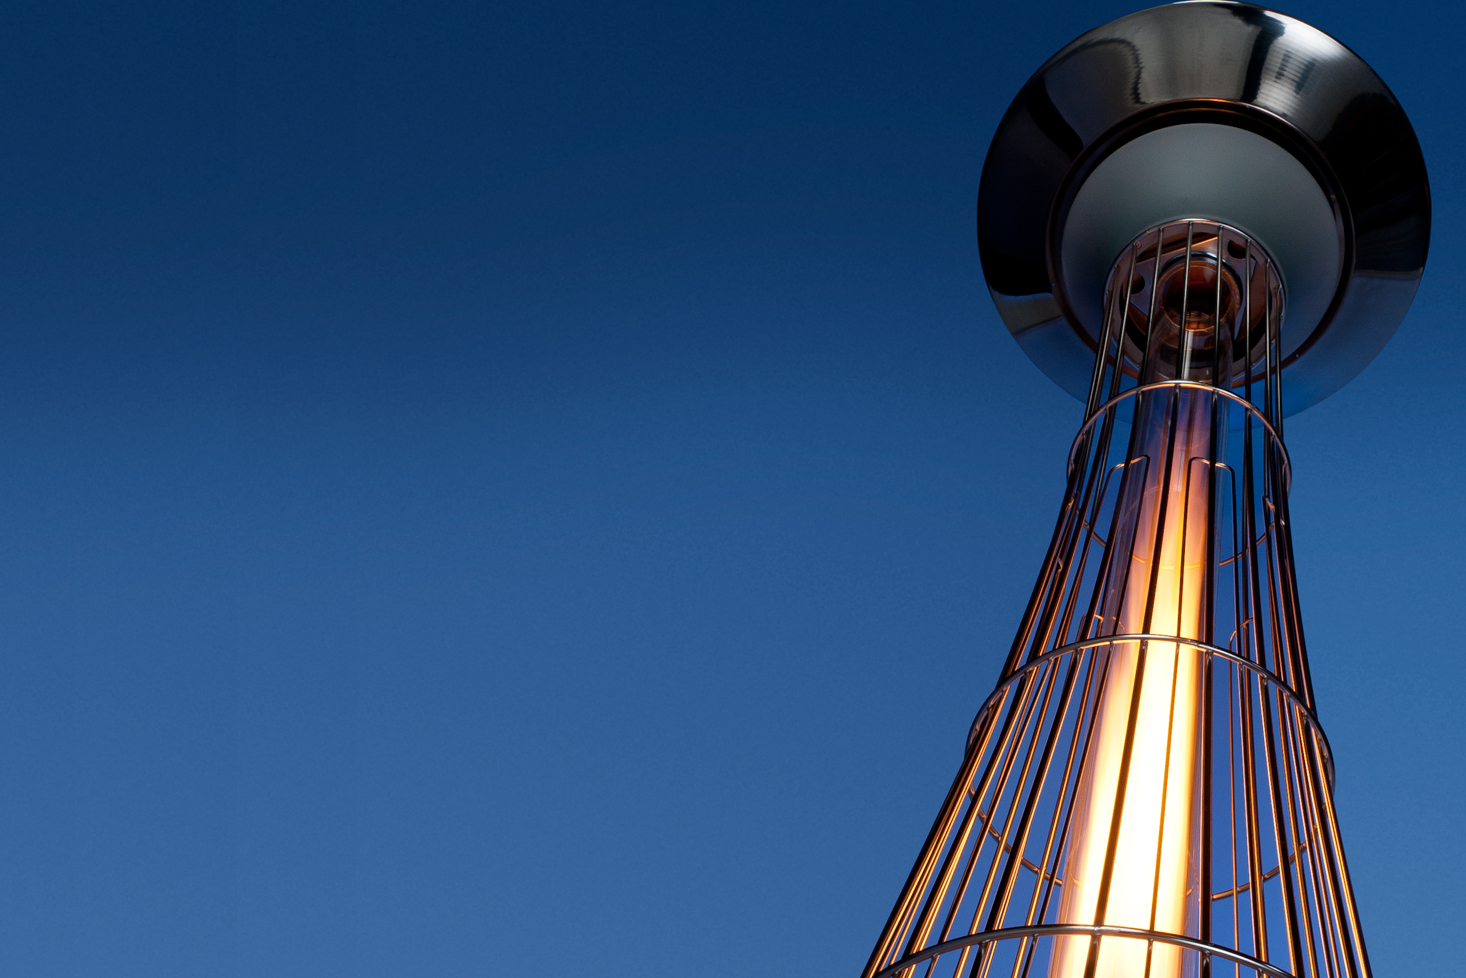
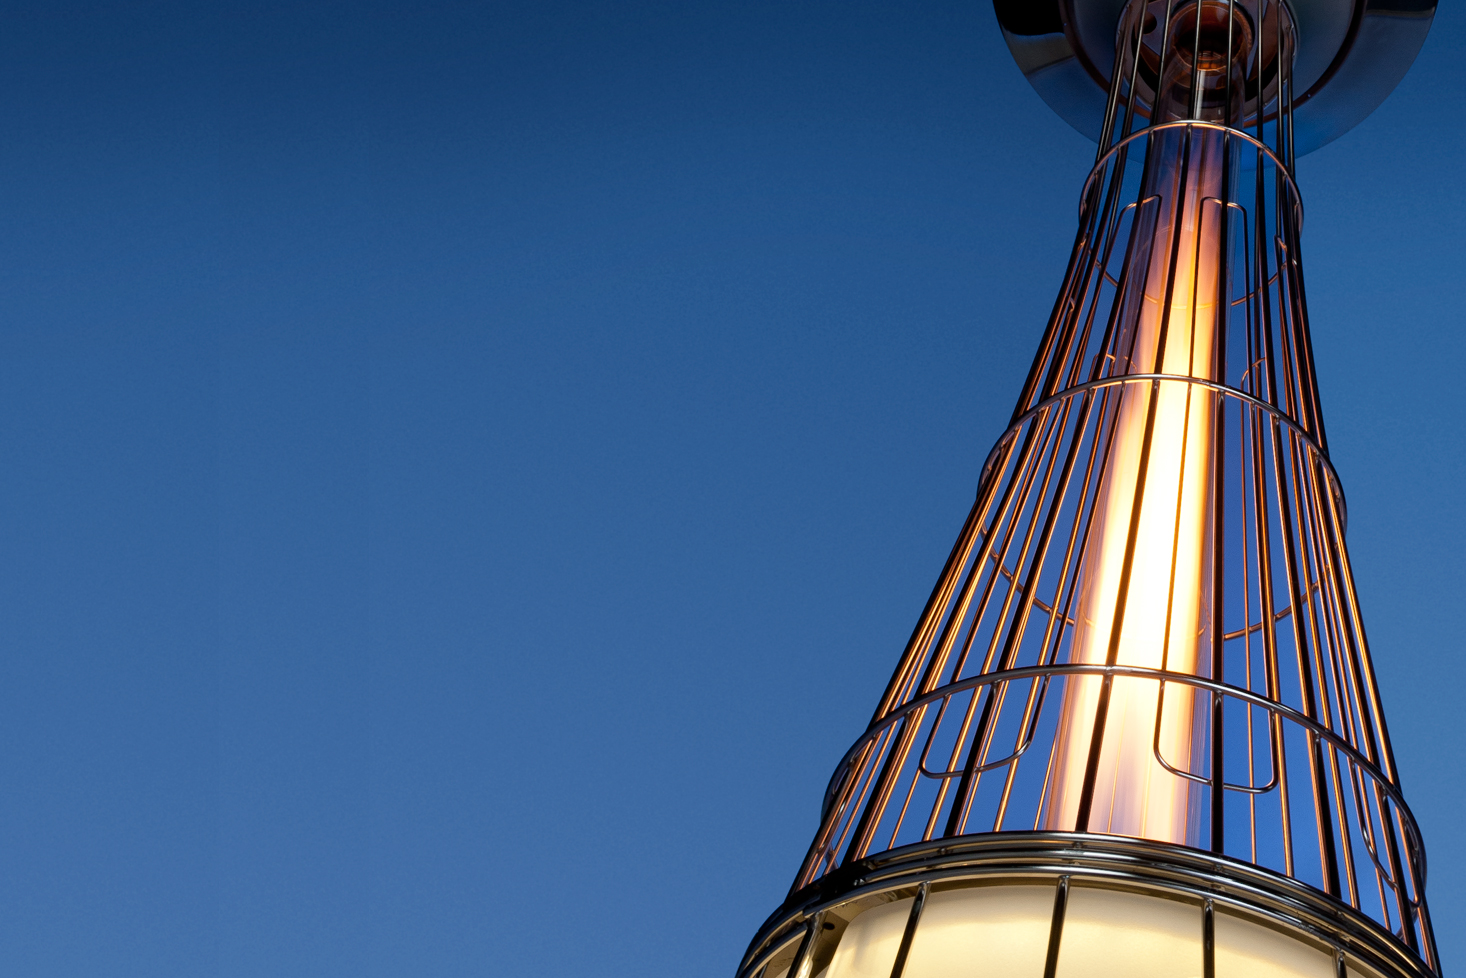
main image update & css push

diff --git a/public/stylesheets/style.css b/public/stylesheets/style.css
@@ -25,12 +25,12 @@ section{
 	background-repeat-y: no-repeat;
 	background-attachment: fixed;
 	background-position-x: 50%;
-	background-position-y: 100%;
+	background-position-y: 50%;
 	background-clip: initial;
 	background-color: #324A6F;
 	-webkit-background-size: 1466px 968px;
-	-moz-background-size:cover;
-	background-size:cover;
+	-moz-background-size: 1466px 968px;
+	background-size: 1466px 968px;
 	height: auto !important; 
 	min-height: 100%;
 	height: 100%;
@@ -102,8 +102,8 @@ section#images{
 }
 
 section#footers{
-	margin-top: 100px;
-	padding-top: 100px;
+	margin-top: 0px;
+	padding-top: 200px;
 }
 
 dl.dl-horizontal{

diff --git a/public/index.html b/public/index.html
@@ -43,7 +43,7 @@
 
       	    	  <li><a href="#specs">Specifications</a></li>
 
-				  <li><a href="#footer">Contact Us</a></li>
+				  <li><a href="#footers">Contact Us</a></li>
       	    	</ul>
         	</div>
 		</div>	
@@ -69,7 +69,8 @@
 	 		 <!-- Carousel nav -->
 	 		 <a class="carousel-control left" href="#myCarousel" data-slide="prev">&lsaquo;</a>
 	 		 <a class="carousel-control right" href="#myCarousel" data-slide="next">&rsaquo;</a>
-	 	</div>	</div>
+			</div>
+	 	</div>
 	 </div>
 	</section>
 	

diff --git a/public/scripts/bootstrap.js b/public/scripts/bootstrap.js
@@ -1389,7 +1389,7 @@
   $.fn.scrollspy.Constructor = ScrollSpy
 
   $.fn.scrollspy.defaults = {
-    offset: 10
+    offset: 50
   }
 
 
